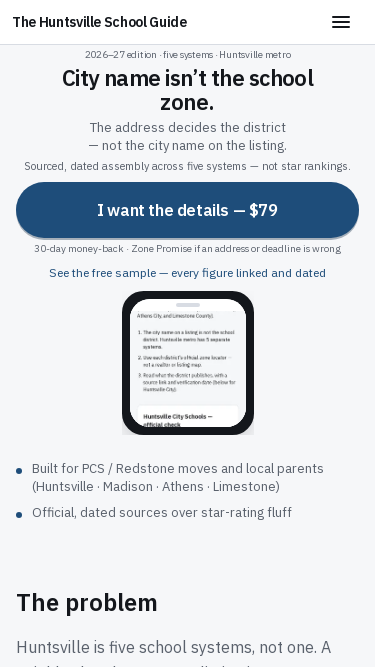
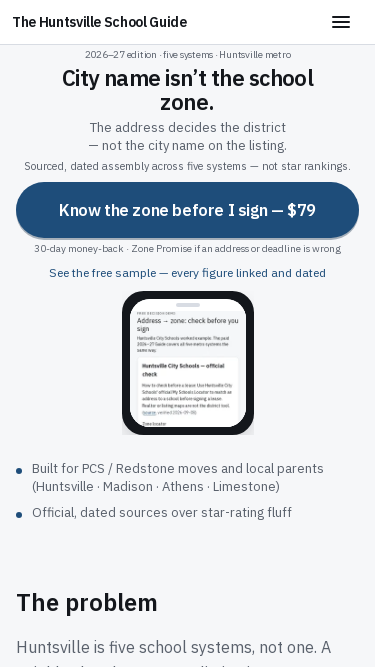
fix(hero): lock primary CTA to zone-before-sign copy (#45)
Replace hero.cta with 'Know the zone before I sign — $79' and refresh
proof captures plus sales-honesty assertion.

Changed region(s): [[0.352, 0.4498, 0.6453, 0.6597], [0.1467, 0.2999, 0.8507, 0.3298]]

diff --git a/lib/sales-honesty.test.ts b/lib/sales-honesty.test.ts
@@ -136,7 +136,7 @@ describe("homepage offer honesty", () => {
   });
 
   it("keeps the first-screen buy as the $79 CheckoutForm on small viewports", () => {
-    assert.equal(hero.cta, "I want the details — $79");
+    assert.equal(hero.cta, "Know the zone before I sign — $79");
     assert.equal(hero.stickyMobileCta, "Get the School Guide — $79");
     assert.match(mobileBuyBarSource, /tierId="79"/);
     assert.match(mobileBuyBarSource, /label=\{hero\.stickyMobileCta\}/);

diff --git a/lib/site.ts b/lib/site.ts
@@ -60,7 +60,7 @@ export const hero = {
   ] as const,
   sampleDemoCue:
     "See the free sample — every figure linked and dated",
-  cta: "I want the details — $79",
+  cta: "Know the zone before I sign — $79",
   stickyMobileCta: "Get the School Guide — $79",
   guarantee: "30-day money-back guarantee",
   credibility:
